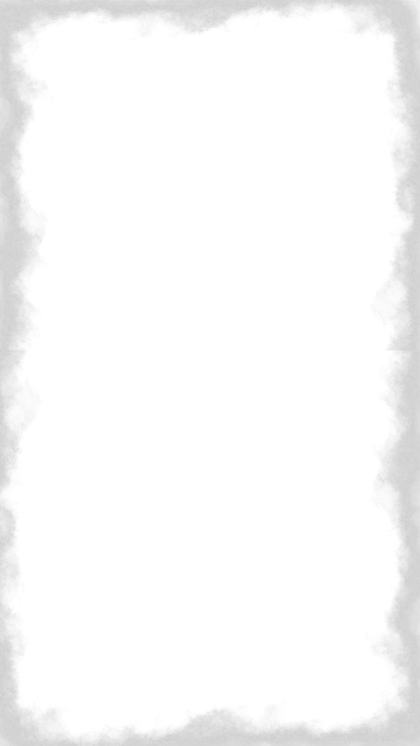
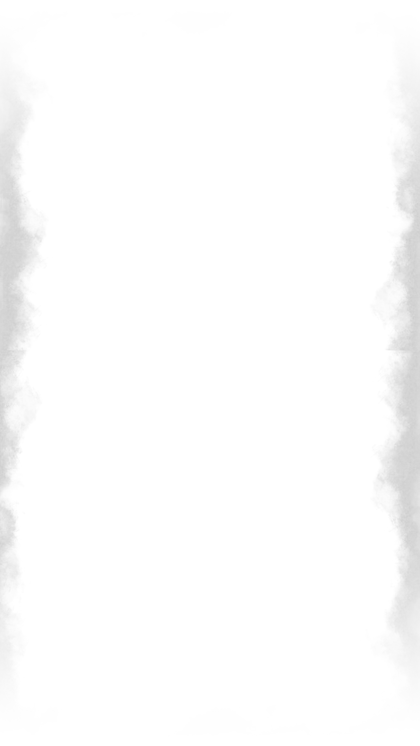
Switch the frame to stone, and cut its horizontal bands
Swapping the asset surfaced a fault in the layer itself, present since it
landed and equally true of the smoke variant. The frame is fixed while
the page scrolls through it, so a band across the top or bottom does not
sit in a margin -- it sits under every line of copy on the site in turn.
Measured across 390/768/1200/1920px, muted text passing through those
bands fell to 1.0:1 against a 4.5 floor. The static mockups hid it
completely, because in a still the text sits in the middle.

The side bands are the opposite: 7.7:1 at worst, because they stop at
x=71 while the content column starts at x=48 on the narrowest viewport
and x=492 on the widest. So the fix is to keep those and drop the rest --
a smoothstep ramp on the alpha that fades the top and bottom thirds. Swept
the fade width: 0.16 leaves 2.96, 0.24 reaches 5.23, 0.32 plateaus at
5.93, which is where the corners stop contributing at all.

One measurement went the wrong way first: I sampled the layer's alpha at
the text position, read 255, and nearly called it a failure. Alpha only
says the stone is opaque -- what matters is the luminance it composites
to, and the dark underside of a torn edge at full alpha is harmless
behind white text. The contrast numbers above are the re-measure.

Stone is also two-thirds lighter than it was: sweeping size against
quality showed w480/103KB and w340/55KB are indistinguishable once the
frame is stretched four times over, so it ships at 340px wide. Both
[…]

Changed region(s): [[0.0, 0.8324, 1.0, 1.0], [0.0, 0.0, 1.0, 0.1542]]

diff --git a/src/components/page-frame.tsx b/src/components/page-frame.tsx
@@ -3,23 +3,30 @@
  *
  * The source is a phone wallpaper: a dark field inside a bright border. Only
  * the border is wanted, so the asset is built with brightness mapped to
- * opacity — the middle is fully transparent (measured: max alpha 0), which is
- * what keeps the page colour exactly `--color-background` where the content
- * sits. Nothing about text contrast or the portrait's blend changes.
+ * opacity — the middle drops out entirely, which is what keeps the page colour
+ * exactly `--color-background` where the content sits.
  *
- * Stretched rather than cropped: a frame has to meet the viewport edges to be
- * a frame, and `cover` on a 9:16 source in a landscape window would push the
- * top and bottom bands entirely off-screen. The texture is smoke, so it has no
- * straight lines to give the stretch away.
+ * Sides only, and that is the load-bearing detail. The source frames all four
+ * edges, but this layer is fixed while the page scrolls through it, so a band
+ * across the top or bottom sits under every line of copy on the site in turn.
+ * Measured: with the horizontal bands in, muted text over them fell to 1.0:1
+ * against a 4.5 floor. The asset now fades out over the top and bottom third,
+ * leaving the two side bands, which the content column never reaches — worst
+ * case there is 5.9:1 at 390px through 1920px.
  *
- * Fixed, not scrolling: it reads as a window the page moves behind. That also
- * means one paint instead of repainting a tall image on every scroll.
+ * Stretched rather than cropped: a frame has to meet the viewport edges, and
+ * `cover` on a 9:16 source in a landscape window would push its sides out of
+ * view. Torn stone is irregular enough that the horizontal stretch reads as
+ * more of the same texture.
+ *
+ * Swap the filename for `frame-smoke.webp` to get the softer variant; both are
+ * built the same way and an unreferenced one is never downloaded.
  */
 export function PageFrame() {
   return (
     <div
       aria-hidden
-      className="pointer-events-none fixed inset-0 z-0 bg-[url('/frame-smoke.webp')] bg-[length:100%_100%] bg-no-repeat opacity-70"
+      className="pointer-events-none fixed inset-0 z-0 bg-[url('/frame-stone.webp')] bg-[length:100%_100%] bg-no-repeat opacity-85"
     />
   );
 }
